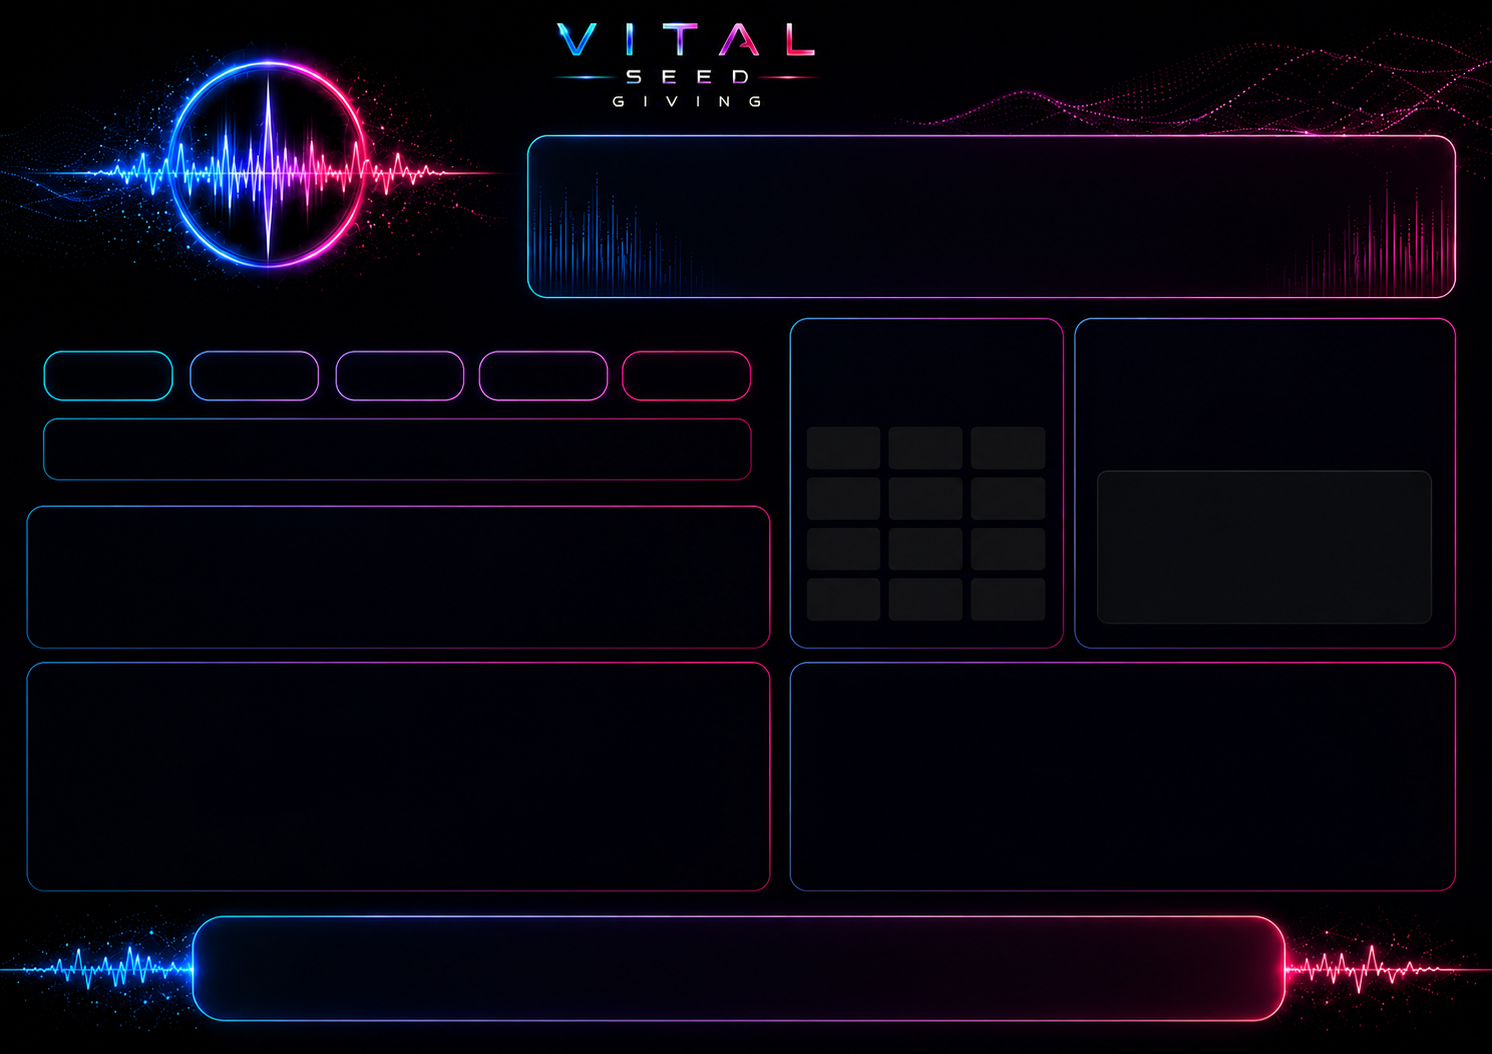
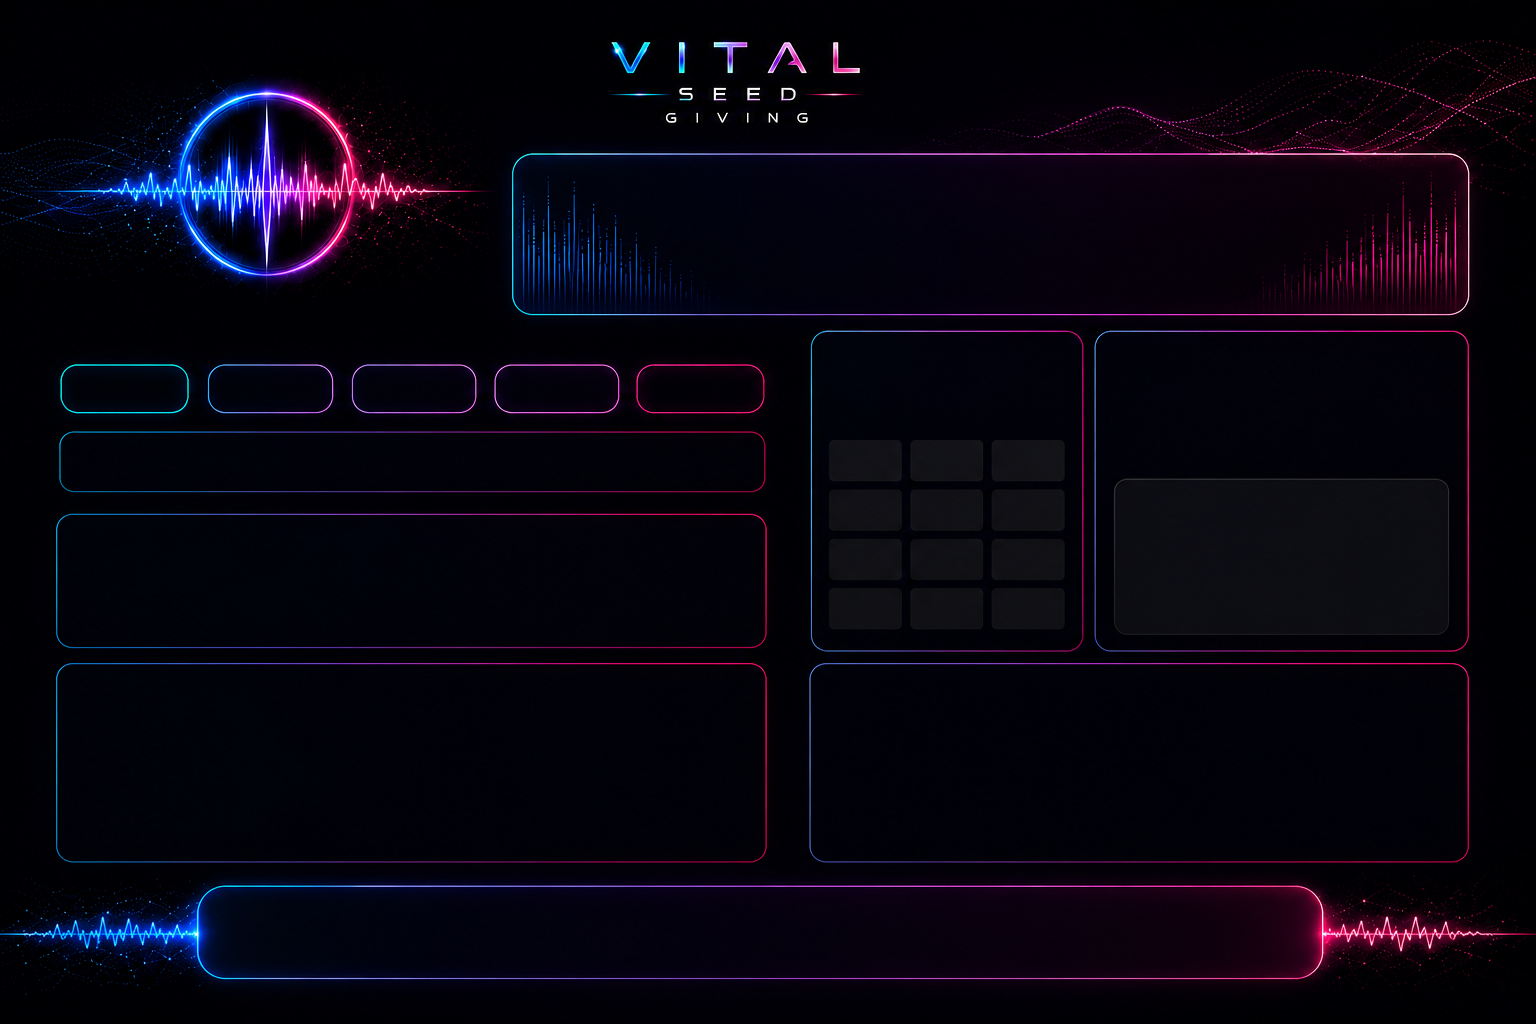
Fit mobile dashboard and Vital Seed backgrounds without cropping desktop art.
Wire portrait backdrop plates with variant-specific CSS, correct artboard dimensions for hero layout math, object-contain Vital Seed pages with mobile source swap, and restore nav on /experience/giving.

diff --git a/app/dashboard/vital-seed/page.tsx b/app/dashboard/vital-seed/page.tsx
@@ -8,6 +8,7 @@ import {
   MOCK_NETWORK_STATS,
   sumPersonalContributions,
   VITAL_SEED_PAGE_BACKGROUND,
+  VITAL_SEED_PAGE_BACKGROUND_MOBILE,
 } from "@/lib/data/vital-seed";
 import { formatHarvestCurrency } from "@/lib/live/harvest-metrics";
 import { useHarvestMetrics } from "@/lib/useHarvestMetrics";
@@ -23,14 +24,21 @@ export default function VitalSeedPage() {
 
   return (
     <main className="relative min-h-dvh w-full overflow-x-hidden bg-brand-black pt-safe pb-safe text-white">
-      <div aria-hidden className="pointer-events-none fixed inset-0 z-0">
+      <picture
+        aria-hidden
+        className="pointer-events-none fixed inset-0 z-0 block h-full w-full bg-brand-black"
+      >
+        <source
+          media="(max-width: 767px) and (orientation: portrait)"
+          srcSet={VITAL_SEED_PAGE_BACKGROUND_MOBILE}
+        />
         {/* eslint-disable-next-line @next/next/no-img-element */}
         <img
           src={VITAL_SEED_PAGE_BACKGROUND}
           alt=""
-          className="h-full w-full object-cover object-center"
+          className="h-full w-full object-contain object-center"
         />
-      </div>
+      </picture>
 
       <div className="relative z-10 w-full px-4 py-6 md:px-6 lg:px-8">
         <header className="border-b border-white/10 pb-6">

diff --git a/lib/experience/dashboard-beam-position.ts b/lib/experience/dashboard-beam-position.ts
@@ -1,3 +1,5 @@
+import { AWAKENING_CONCERT_BACKDROP_ART } from "@/lib/experience/awakening-dashboard-assets";
+
 /** Match baked-in concert flare row — normalized Y (0–1) in each backdrop asset. */
 export type BackdropVariant = "mobile" | "desktop";
 
@@ -13,15 +15,15 @@ const CONCERT_BACKDROP: Record<
   }
 > = {
   desktop: {
-    width: 2752,
-    height: 1536,
+    width: AWAKENING_CONCERT_BACKDROP_ART.desktop.width,
+    height: AWAKENING_CONCERT_BACKDROP_ART.desktop.height,
     beamYN: 0.576,
     heroStackAnchorYN: 0.538,
     cardRowYN: 0.655,
   },
   mobile: {
-    width: 1408,
-    height: 2968,
+    width: AWAKENING_CONCERT_BACKDROP_ART.mobile.width,
+    height: AWAKENING_CONCERT_BACKDROP_ART.mobile.height,
     beamYN: 0.512,
     heroStackAnchorYN: 0.478,
     cardRowYN: 0.618,
@@ -41,7 +43,7 @@ function getBackdropConfig(variant: string | undefined | null) {
 /** Concert lineup backdrop height as a fraction of the viewport (smaller = smaller people). */
 export const BACKDROP_HEIGHT_SCALE = 1;
 
-export const HERO_STACK_LAYOUT_VERSION = 37;
+export const HERO_STACK_LAYOUT_VERSION = 38;
 
 export const HERO_STACK_LIFT_PX: Record<BackdropVariant, number> = {
   mobile: 188,

diff --git a/app/experience/giving/page.tsx b/app/experience/giving/page.tsx
@@ -1,14 +1,26 @@
-import { VITAL_SEED_PAGE_BACKGROUND } from "@/lib/data/vital-seed";
+import {
+  VITAL_SEED_PAGE_BACKGROUND,
+  VITAL_SEED_PAGE_BACKGROUND_MOBILE,
+} from "@/lib/data/vital-seed";
 
 export default function ExperienceGivingPage() {
   return (
     <main className="relative h-dvh min-h-dvh w-full overflow-hidden bg-brand-black">
-      {/* eslint-disable-next-line @next/next/no-img-element */}
-      <img
-        src={VITAL_SEED_PAGE_BACKGROUND}
-        alt=""
-        className="pointer-events-none fixed inset-0 z-0 h-full w-full object-cover object-center"
-      />
+      <picture
+        aria-hidden
+        className="pointer-events-none fixed inset-0 z-0 block h-full w-full bg-brand-black"
+      >
+        <source
+          media="(max-width: 767px) and (orientation: portrait)"
+          srcSet={VITAL_SEED_PAGE_BACKGROUND_MOBILE}
+        />
+        {/* eslint-disable-next-line @next/next/no-img-element */}
+        <img
+          src={VITAL_SEED_PAGE_BACKGROUND}
+          alt=""
+          className="h-full w-full object-contain object-center"
+        />
+      </picture>
     </main>
   );
 }

diff --git a/components/experience/dashboard/ExperienceDashboardBackdrop.tsx b/components/experience/dashboard/ExperienceDashboardBackdrop.tsx
@@ -1,8 +1,7 @@
 "use client";
 
-import { type CSSProperties } from "react";
 import { AWAKENING_ASSETS } from "@/lib/experience/awakening-dashboard-assets";
-import { BACKDROP_HEIGHT_SCALE } from "@/lib/experience/dashboard-beam-position";
+import { cn } from "@/lib/utils";
 
 type ExperienceDashboardBackdropProps = {
   variant: "mobile" | "desktop";
@@ -26,14 +25,12 @@ export default function ExperienceDashboardBackdrop({
         data-backdrop-variant={variant}
         src={src}
         alt=""
-        className="experience-dashboard-backdrop-img w-full"
-        style={
-          {
-            "--backdrop-height-scale": BACKDROP_HEIGHT_SCALE,
-            objectFit: "cover",
-            objectPosition: "center top",
-          } as CSSProperties
-        }
+        className={cn(
+          "experience-dashboard-backdrop-img",
+          isMobile
+            ? "experience-dashboard-backdrop-img--mobile"
+            : "experience-dashboard-backdrop-img--desktop",
+        )}
       />
     </div>
   );

diff --git a/lib/data/vital-seed.ts b/lib/data/vital-seed.ts
@@ -5,8 +5,12 @@ import {
 
 export { HARVEST_GOAL_DOLLARS, formatHarvestCurrency };
 
-/** Full-bleed art for `/dashboard/vital-seed` and `/experience/giving`. */
+/** Desktop / landscape art for Vital Seed giving pages (1536×1024). */
 export const VITAL_SEED_PAGE_BACKGROUND = "/vital%20seed/main%20background.png";
+
+/** Mobile portrait art (864×1821) — avoids cropping the desktop plate on phones. */
+export const VITAL_SEED_PAGE_BACKGROUND_MOBILE =
+  "/vital%20seed/main%20background%20mobile.png";
 
 export type ContributionStatus = "paid" | "pending" | "processing";
 

diff --git a/app/globals.css b/app/globals.css
@@ -1577,6 +1577,18 @@ html {
   height: calc(100dvh * var(--backdrop-height-scale));
   max-height: calc(100dvh * var(--backdrop-height-scale));
   min-height: 0;
+}
+
+.experience-dashboard-backdrop-img--desktop {
+  object-fit: cover;
+  object-position: center top;
+}
+
+.experience-dashboard-backdrop-img--mobile {
+  /* Portrait plate (853×1844) — fill viewport without squeezing desktop art */
+  width: 100%;
+  height: 100dvh;
+  max-height: 100dvh;
   object-fit: cover;
   object-position: center top;
 }

diff --git a/lib/experience/awakening-dashboard-assets.ts b/lib/experience/awakening-dashboard-assets.ts
@@ -1,5 +1,11 @@
 /** Experience dashboard raster assets — backdrops + approved UI button art. */
 
+/** Source art dimensions — keep in sync with PNG files in `public/awakening/`. */
+export const AWAKENING_CONCERT_BACKDROP_ART = {
+  desktop: { width: 1536, height: 1024 },
+  mobile: { width: 853, height: 1844 },
+} as const;
+
 export const AWAKENING_ASSETS = {
   backgrounds: {
     concert: "/awakening/dashboard-concert-bg.png",

diff --git a/lib/routes.ts b/lib/routes.ts
@@ -5,7 +5,6 @@ export const NAV_HIDDEN_ROUTES = [
   "/test-suite",
   "/ops",
   "/experience/live",
-  "/experience/giving",
   "/dashboard/live",
 ] as const;
 
